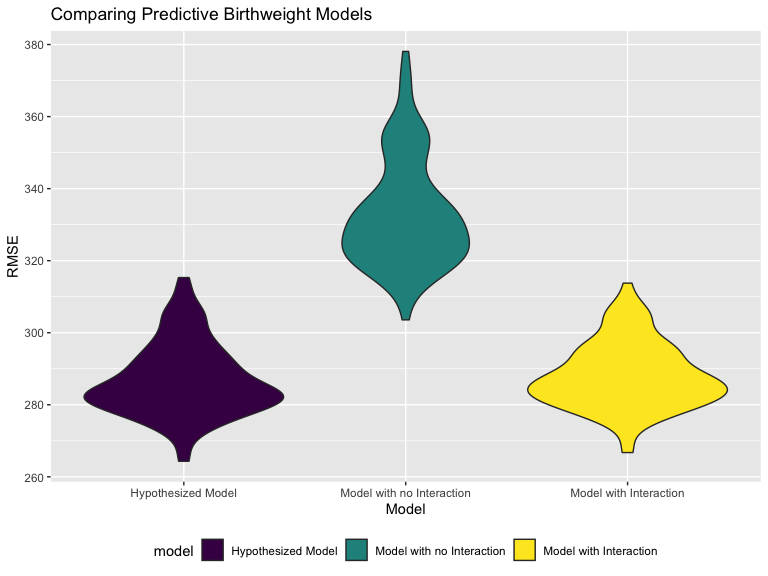
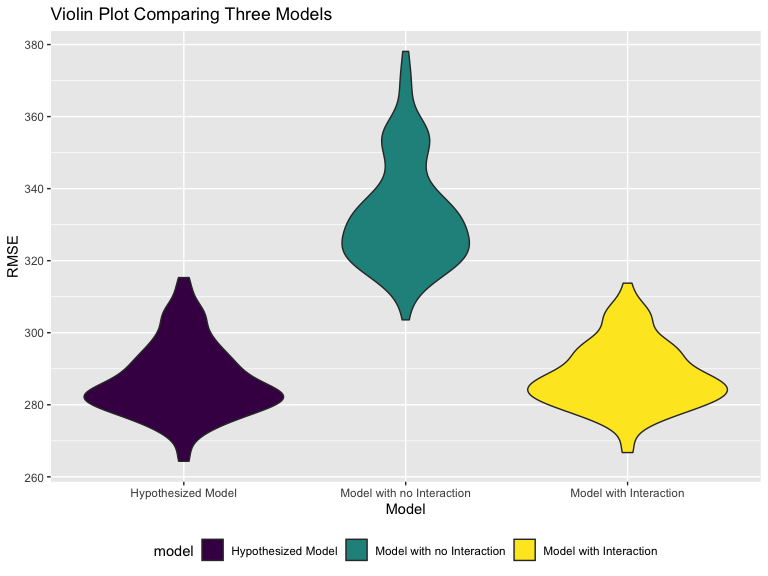
adding comments for the violin plot

Changed region(s): [[0.0625, 0.0, 0.5, 0.0625]]

diff --git a/hw6.md b/hw6.md
@@ -161,7 +161,7 @@ cv_birthweight %>%
   ggplot(aes(x = model, y = rmse, fill = model)) + 
   geom_violin() +
   labs(
-        title = "Comparing Predictive Birthweight Models",
+        title = "Violin Plot Comparing Three Models",
         x = "Model",
         y = "RMSE"
       ) +
@@ -171,3 +171,8 @@ cv_birthweight %>%
 ```
 
 <img src="hw6_files/figure-gfm/unnamed-chunk-3-1.png" width="90%" />
+Comments: When comparing the my own hypothesized, model 1 and the
+interaction models, I noticed that both the hypothesized model and model
+with interaction show relative smaller RMSE compared to the model 2.
+Model 2 has the highest RMSEs, suggesting a lot of modifications should
+be done to improve this model.
